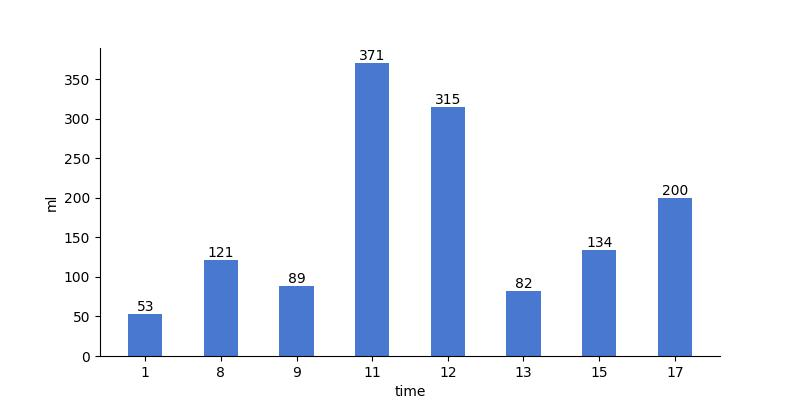
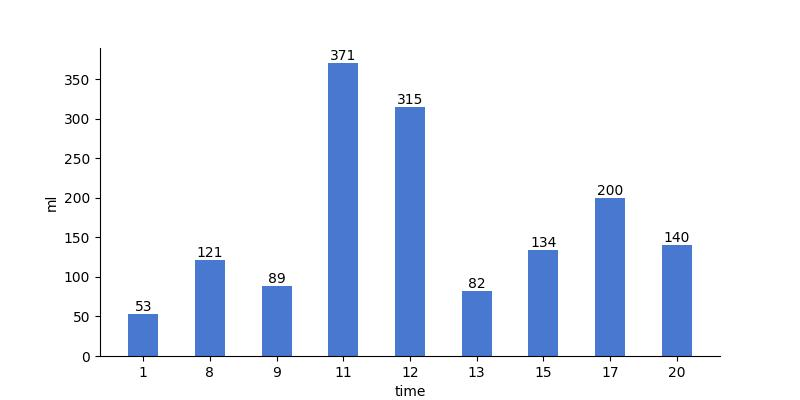
generated readme

diff --git a/README.md b/README.md
@@ -5,12 +5,12 @@
 
 | 今日总饮水量 | 每小时平均饮水量 |
 | :----: | :----: |
-| 1365 | 170 |
+| 1505 | 167 |
 </div>
 
-| 日期 | 01:01:21 | 08:06:45 | 08:53:19 | 09:46:00 | 11:10:53 | 11:35:20 | 12:34:09 | 12:52:20 | 13:40:37 | 15:14:38 | 17:24:11 |
-| :----: | :----: | :----: | :----: | :----: | :----: | :----: | :----: | :----: | :----: | :----: | :----: |
-| 2022-10-16 | 53 | 58 | 63 | 89 | 300 | 71 | 200 | 115 | 82 | 134 | 200 |
+| 日期 | 01:01:21 | 08:06:45 | 08:53:19 | 09:46:00 | 11:10:53 | 11:35:20 | 12:34:09 | 12:52:20 | 13:40:37 | 15:14:38 | 17:24:11 | 20:16:43 |
+| :----: | :----: | :----: | :----: | :----: | :----: | :----: | :----: | :----: | :----: | :----: | :----: | :----: |
+| 2022-10-16 | 53 | 58 | 63 | 89 | 300 | 71 | 200 | 115 | 82 | 134 | 200 | 140 |
 
 # 近30日饮水数据
 
